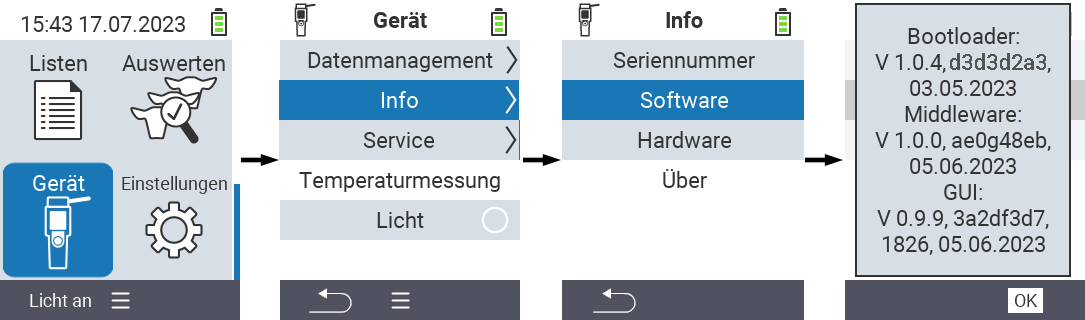
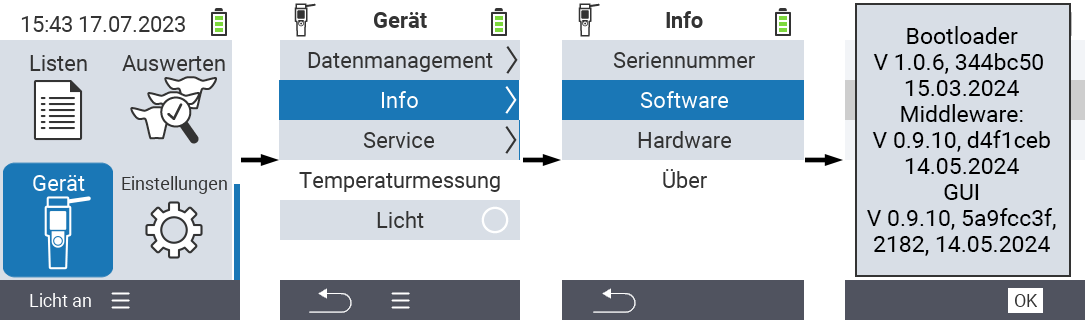
Firmwareversionen und Screenshots 'Firmware versions' aktualisiert

Changed region(s): [[0.7908, 0.25, 0.9733, 0.625], [0.7908, 0.6562, 0.9733, 0.8125], [0.7908, 0.0938, 0.9733, 0.2188]]

diff --git a/layouts/shortcodes/version/firmware.html b/layouts/shortcodes/version/firmware.html
@@ -25,31 +25,31 @@
 
 {{- if eq $_component "gui" -}}
   {{- if eq $_info "default" -}}
-    0.9.9
+    0.9.10
   {{- else if eq $_info "date" -}}
     {{- if eq $_dateFormat "de" -}}
-      20.03.2024
+      14.05.2024
     {{- else -}}
-      2024-03-20
+      2024-05-14
     {{- end -}}
   {{- else if eq $_info "commitHash" -}}
-    1ad71d79
+    5a9fcc3f
   {{- else if eq $_info "commitNo" -}}
-    2076
+    2182
   {{- else -}}
     {{- errorf "Unhandled combination of parameters: component=%q, info=%q" $_component $_info -}}
   {{- end -}}
 {{- else if eq $_component "middleware" -}}
   {{- if eq $_info "default" -}}
-    0.9.9
+    0.9.10
   {{- else if eq $_info "date" -}}
     {{- if eq $_dateFormat "de" -}}
-      20.03.2024
+      14.05.2024
     {{- else -}}
-      2024-03-20
+      2024-05-14
     {{- end -}}
   {{- else if eq $_info "commitHash" -}}
-    4d7f851
+    d4f1ceb
   {{- else if eq $_info "commitNo" -}}
     n/a
   {{- else -}}
